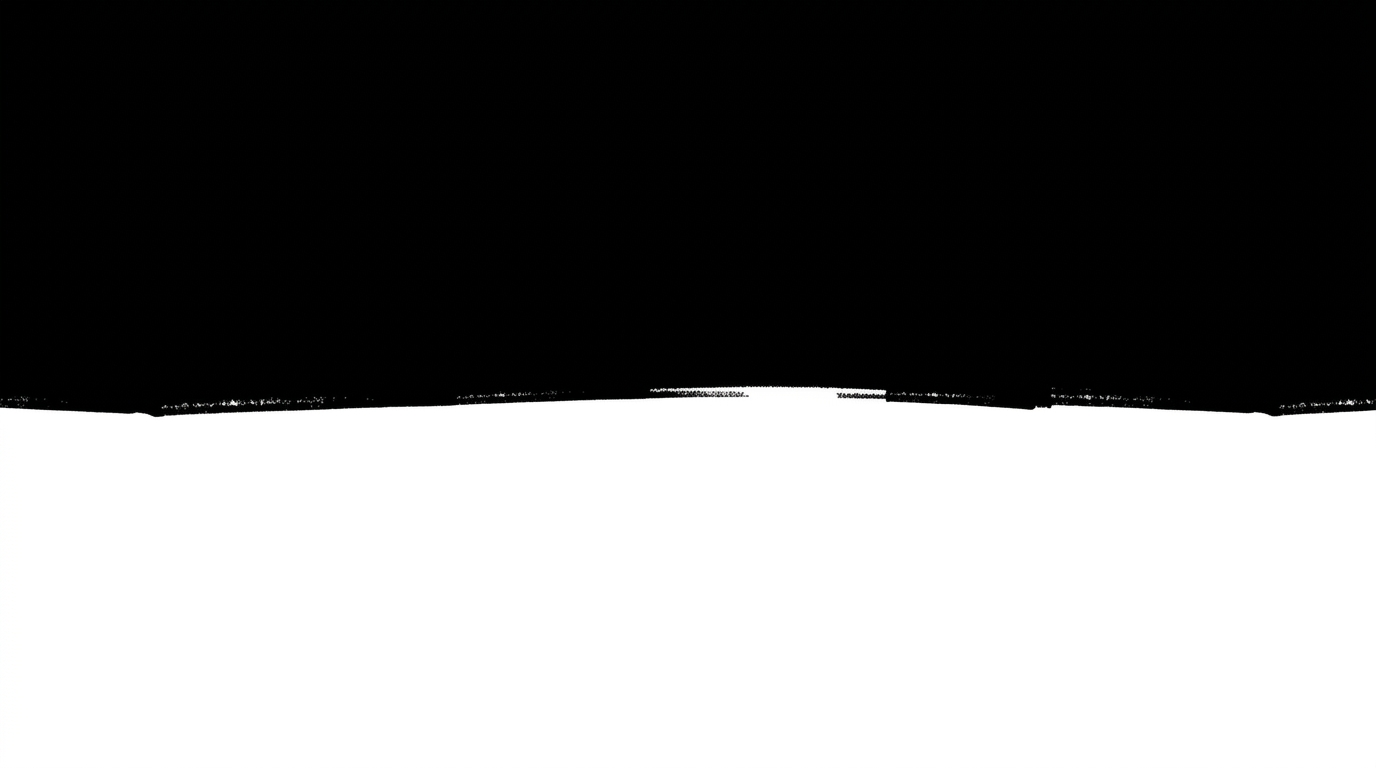
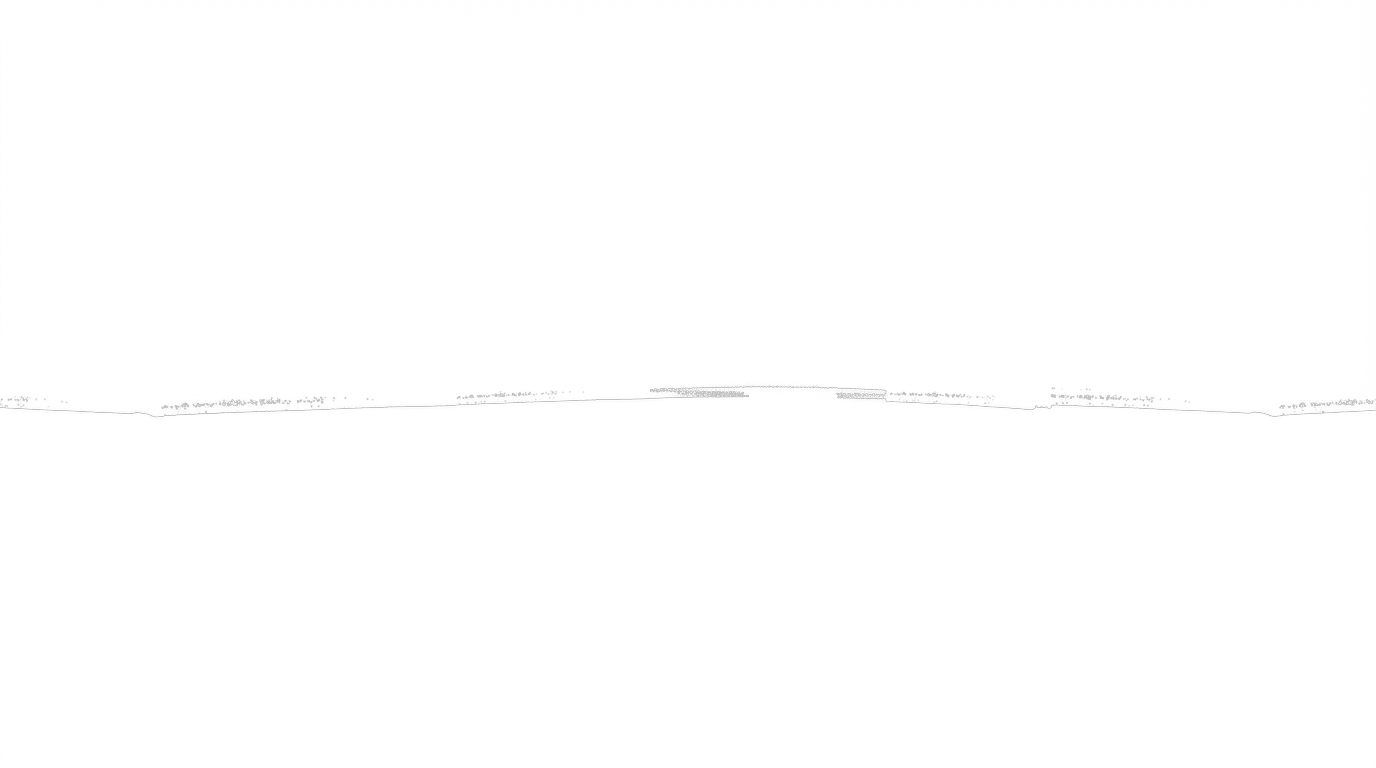
Fix Why Trust Us desktop centering and Safari divider rendering
WhyTrustUs used a bottom-only padding that pinned content near the
top of the section with a lopsided gap below; switched to symmetric
padding and a slightly shorter min-height so it's actually centered.

rough-edge-mask.png was fully opaque in its alpha channel and relied
on forced CSS luminance-mode masking to render its torn shape, but
Safari's -webkit-mask-image doesn't reliably honor that hint and
falls back to alpha, which showed as a plain straight edge on real
iOS devices while Chromium previews looked fine. Baked the same
shape into the alpha channel so masking renders correctly regardless
of which mode a given browser defaults to.

diff --git a/src/sections/WhyTrustUs.tsx b/src/sections/WhyTrustUs.tsx
@@ -38,9 +38,15 @@ export default function WhyTrustUs() {
           stickied hero video through its torn gaps (no revealColor = transparent overlap). */}
       <RoughDivider fillColor={SECTION_BG} className={COMPACT_DIVIDER_HEIGHT} />
 
-      {/* Solid body. pb-10 gives the next section's rising divider breathing room instead of
-          butting the icon grid flush against it (BRIEF.md §4A). */}
-      <div className="section-compact px-6 pb-10" style={{ backgroundColor: SECTION_BG }}>
+      {/* Solid body. Symmetric py (rather than a bottom-only pb) keeps the heading/icon block
+          actually centered instead of hugging the top with a large bottom-heavy gap before the
+          divider; the inline minHeight (below section-compact's shared 240px floor) lets this
+          desktop-heavy section sit slightly shorter without touching that shared utility, which
+          other short-content sections (About Preview, etc.) still rely on at 240px. */}
+      <div
+        className="section-compact px-6 py-4"
+        style={{ backgroundColor: SECTION_BG, minHeight: '200px' }}
+      >
         <motion.div
           variants={staggerContainer}
           initial="hidden"